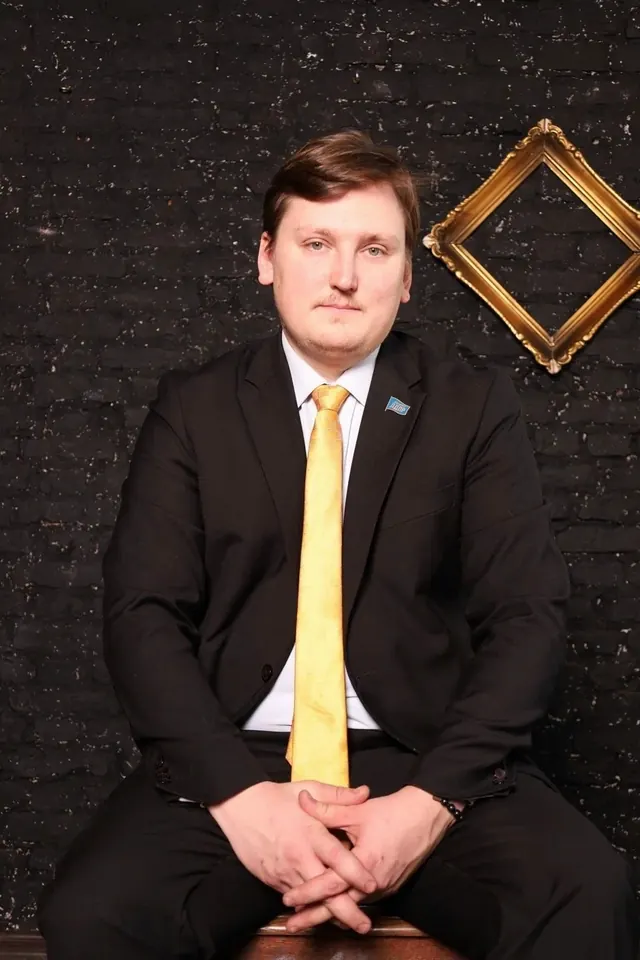
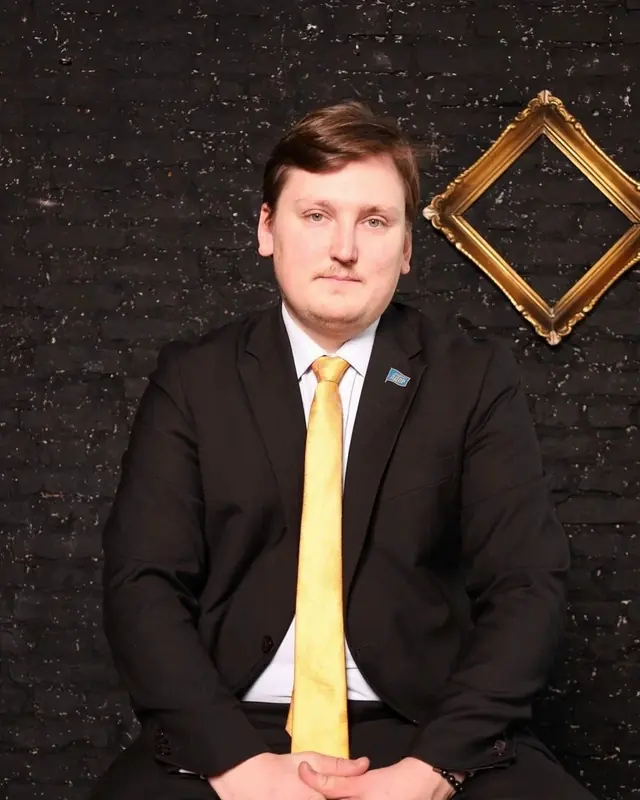
perf(image): портрет кадрирован в 4:5 и пересобран в три размера
- кадрирование повторяет CSS-кроп (object-position center 18%),
  лишние пиксели больше не передаются;
- новые файлы 480/640/800 WebP вместо 480/640/853;
- обновлены srcset, sizes, width/height и preload;
- удалён неиспользуемый kirill-chigirin.webp.

diff --git a/index.html b/index.html
@@ -31,7 +31,7 @@
 <link rel="apple-touch-icon" href="assets/apple-touch-icon.png">
 
 <link rel="preload" as="image" href="assets/kirill-chigirin-640.webp"
-      imagesrcset="assets/kirill-chigirin-480.webp 480w, assets/kirill-chigirin-640.webp 640w, assets/kirill-chigirin-853.webp 853w"
+      imagesrcset="assets/kirill-chigirin-480.webp 480w, assets/kirill-chigirin-640.webp 640w, assets/kirill-chigirin-800.webp 800w"
       imagesizes="(max-width: 900px) 92vw, 440px" fetchpriority="high">
 <link rel="preload" href="assets/fonts/inter-var-cyrillic.woff2" as="font" type="font/woff2" crossorigin>
 <link rel="preload" href="assets/fonts/cormorant-garamond-var-cyrillic.woff2" as="font" type="font/woff2" crossorigin>
@@ -106,7 +106,7 @@
       "name": "Какие документы понадобятся?",
       "acceptedAnswer": {
         "@type": "Answer",
-        "text": "Зависит от характера спора. Обычно нужны договор, переписка, платёжные документы, уведомления и претензии. Если дело уже в суде — исковое заявление и судебные акты. Точный перечень определяется после первого разговора."
+        "text": "Зависит от характера спора. Обычно нужны договор, переписка, платёжные документы, уведомления и претензии. Если дело уже в суде — исковое заявление и судебные акты. Точный перечень определяется после первого разговора: лишние документы не требуются."
       }
     },
     {
@@ -219,9 +219,9 @@
 
       <figure class="hero-portrait">
         <img src="assets/kirill-chigirin-640.webp"
-             srcset="assets/kirill-chigirin-480.webp 480w, assets/kirill-chigirin-640.webp 640w, assets/kirill-chigirin-853.webp 853w"
+             srcset="assets/kirill-chigirin-480.webp 480w, assets/kirill-chigirin-640.webp 640w, assets/kirill-chigirin-800.webp 800w"
              sizes="(max-width: 900px) 92vw, 440px"
-             width="640" height="960"
+             width="640" height="800"
              alt="Кирилл Чигирин — юрист по гражданским спорам в Санкт-Петербурге"
              fetchpriority="high" decoding="async">
         <figcaption><strong>Кирилл Чигирин</strong><span>Юрист · Санкт-Петербург</span></figcaption>
